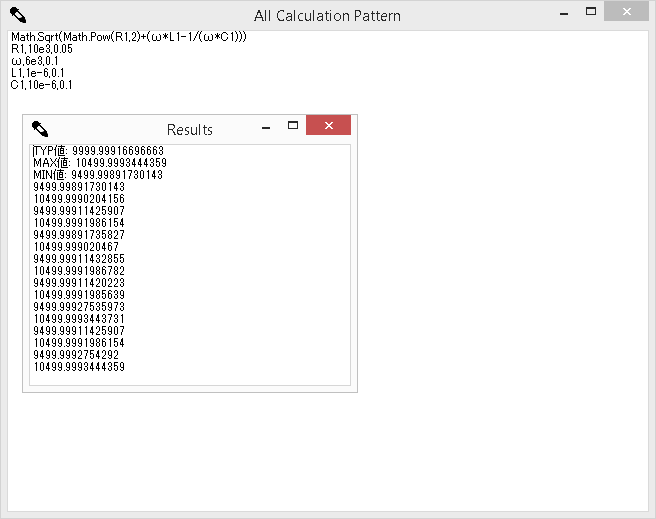
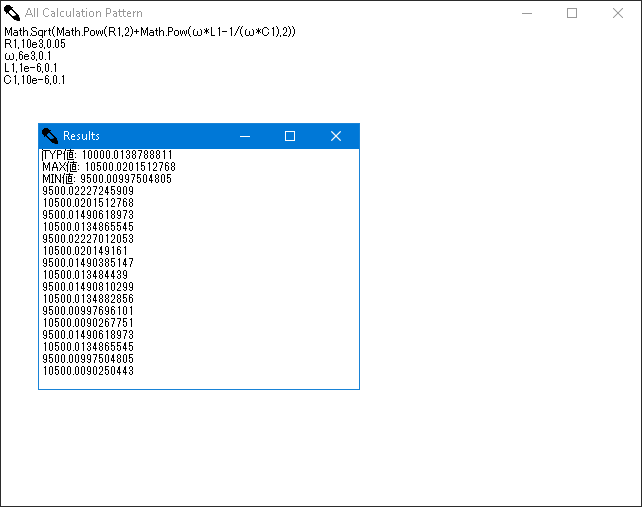
modified calculation equation

Changed region(s): [[0.0312, 0.2071, 0.5607, 0.7692], [0.0, 0.0, 1.0, 1.0], [0.0, 0.0, 0.6231, 0.1775]]

diff --git a/AllCalculationPattern/CompiledSource.cs b/AllCalculationPattern/CompiledSource.cs
@@ -120,7 +120,7 @@ class Window: Form{
 				arCal.Add(arVar[j]*(1 + arTol[j] * iIndexSign));
 			}
 			//計算結果を出力
-			arResults.Add(Math.Sqrt(Math.Pow(arCal[0],2)+(arCal[1]*arCal[2]-1/(arCal[1]*arCal[3]))));
+			arResults.Add(Math.Sqrt(Math.Pow(arCal[0],2)+Math.Pow(arCal[1]*arCal[2]-1/(arCal[1]*arCal[3]),2)));
 		}
 
 		//TYP値を計算出力
@@ -128,7 +128,7 @@ class Window: Form{
 		for(int j = 0; j < arVar.Count; j++){
 			arCal.Add(arVar[j]);
 		}
-		arTextBox[0].Text = "TYP値: "+Math.Sqrt(Math.Pow(arCal[0],2)+(arCal[1]*arCal[2]-1/(arCal[1]*arCal[3])))+"\r\n";
+		arTextBox[0].Text = "TYP値: "+Math.Sqrt(Math.Pow(arCal[0],2)+Math.Pow(arCal[1]*arCal[2]-1/(arCal[1]*arCal[3]),2))+"\r\n";
 
 		//MAX,MINを出力
 		var dMax = arResults[0];

diff --git a/AllCalculationPattern/README.md b/AllCalculationPattern/README.md
@@ -7,7 +7,7 @@
 RLC直列回路のインピーダンスの大きさ計算
 
 パラメータ設定
-* Math.Sqrt(Math.Pow(R1,2)+(ω*L1-1/(ω*C1)))
+* Math.Sqrt(Math.Pow(R1,2)+Math.Pow(ω*L1-1/(ω*C1),2))
 * R1,10e3,0.05
 * ω,6e3,0.1
 * L1,1e-6,0.1
